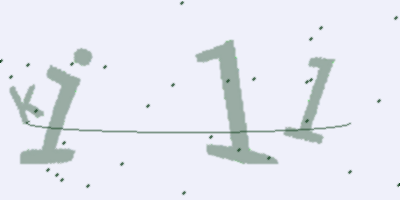
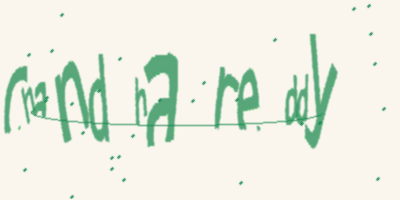
update

diff --git a/main.py b/main.py
@@ -3,6 +3,7 @@ from io import BytesIO
 
 def main() -> None:
     text: str = 'kill'
+    text = input('Enter captcha text:')
 
     captcha: ImageCaptcha = ImageCaptcha(width = 400,
                                          height = 200,

diff --git a/README.md b/README.md
@@ -1,3 +1,3 @@
 # Captcha generater
 
-![Alt text](captcha.png)
+![](<captcha.png>)
